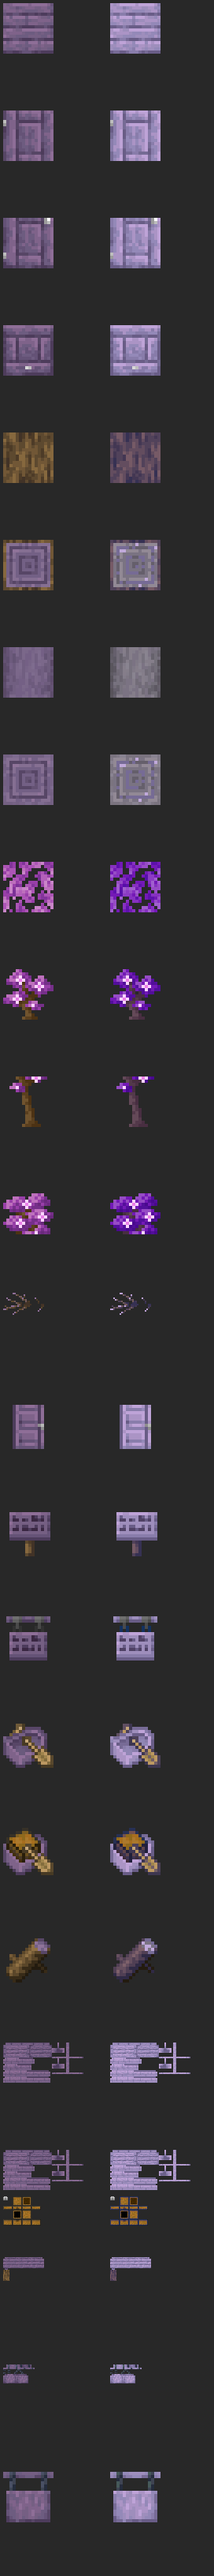
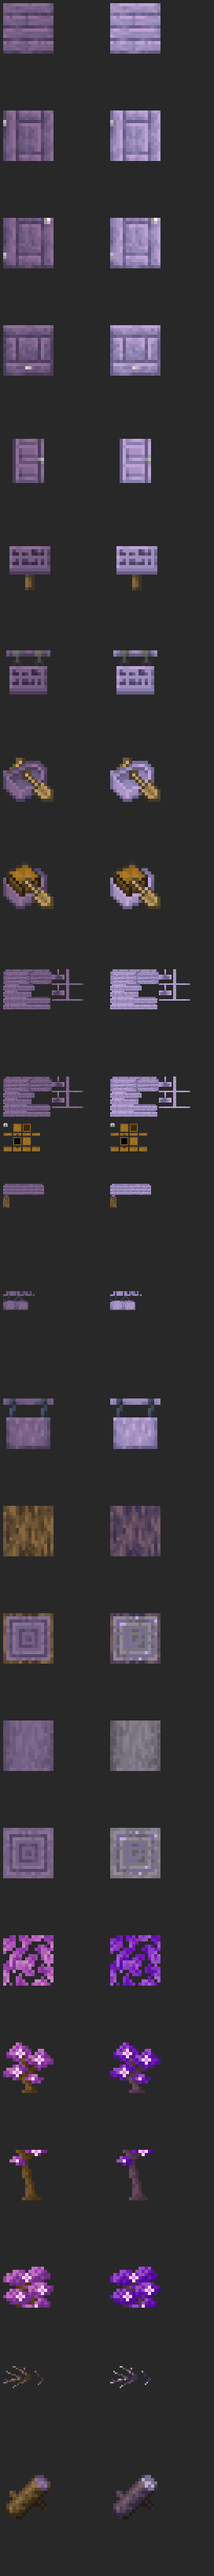
Mauve recolour: boats, signs and doors only change plank pixels (chest and paddles stay)

Changed region(s): [[0.0, 0.1562, 0.3235, 1.0], [0.5, 0.1562, 0.8235, 1.0]]

diff --git a/tools/mauve/recolor_mauve.py b/tools/mauve/recolor_mauve.py
@@ -30,14 +30,20 @@ MATERIALS = {
     'stripped': ('block/stripped_mauve_log.png', 'block/stripped_archwood_log.png'),
     'leaves': ('block/mauve_leaves.png', 'block/purple_archwood_leaves.png'),
 }
-# every mauve texture to recolour; only pixels close to a material's palette change (metal, rope, chests stay)
-TEXTURES = ['block/mauve_planks.png', 'block/mauve_door_top.png', 'block/mauve_door_bottom.png',
-            'block/mauve_trapdoor.png', 'block/mauve_log.png', 'block/mauve_log_top.png', 'block/stripped_mauve_log.png',
-            'block/stripped_mauve_log_top.png', 'block/mauve_leaves.png', 'block/mauve_sapling.png',
-            'block/mauve_shrub_bottom.png', 'block/mauve_shrub_top.png', 'block/mauve_branch.png',
-            'item/mauve_door.png', 'item/mauve_sign.png', 'item/mauve_hanging_sign.png', 'item/mauve_boat.png',
-            'item/mauve_chest_boat.png', 'item/mauve_branch.png', 'entity/boat/mauve.png', 'entity/chest_boat/mauve.png',
-            'entity/signs/mauve.png', 'entity/signs/hanging/mauve.png', 'gui/hanging_signs/mauve.png']
+# every mauve texture to recolour, with the materials it may contain. Only pixels close to one of those materials'
+# palettes change, so the brown chest and paddles on boats (close to mauve's brown bark) are left alone.
+WOOD, TREE = ('planks',), ('planks', 'bark', 'stripped', 'leaves')
+TEXTURES = {
+    'block/mauve_planks.png': WOOD, 'block/mauve_door_top.png': WOOD, 'block/mauve_door_bottom.png': WOOD,
+    'block/mauve_trapdoor.png': WOOD, 'item/mauve_door.png': WOOD, 'item/mauve_sign.png': WOOD,
+    'item/mauve_hanging_sign.png': WOOD, 'item/mauve_boat.png': WOOD, 'item/mauve_chest_boat.png': WOOD,
+    'entity/boat/mauve.png': WOOD, 'entity/chest_boat/mauve.png': WOOD, 'entity/signs/mauve.png': WOOD,
+    'entity/signs/hanging/mauve.png': WOOD, 'gui/hanging_signs/mauve.png': WOOD,
+    'block/mauve_log.png': TREE, 'block/mauve_log_top.png': TREE, 'block/stripped_mauve_log.png': TREE,
+    'block/stripped_mauve_log_top.png': TREE, 'block/mauve_leaves.png': TREE, 'block/mauve_sapling.png': TREE,
+    'block/mauve_shrub_bottom.png': TREE, 'block/mauve_shrub_top.png': TREE, 'block/mauve_branch.png': TREE,
+    'item/mauve_branch.png': TREE,
+}
 MATCH = 12.0        # max CIELAB distance from a material's palette for a pixel to count as that material
 
 
@@ -112,11 +118,11 @@ def main():
     def mauve(path):
         return Image.open(io.BytesIO(ru.read('assets/regions_unexplored/textures/' + path)))
 
-    materials = [Material(mauve(src), archwood(arch)) for src, arch in MATERIALS.values()]
+    materials = {name: Material(mauve(src), archwood(arch)) for name, (src, arch) in MATERIALS.items()}
     rows = []
-    for path in TEXTURES:
+    for path, kinds in TEXTURES.items():
         src = mauve(path)
-        new = recolor(src, materials)
+        new = recolor(src, [materials[k] for k in kinds])
         (OUT / path).parent.mkdir(parents=True, exist_ok=True)
         new.save(OUT / path)
         rows.append((src, new))
